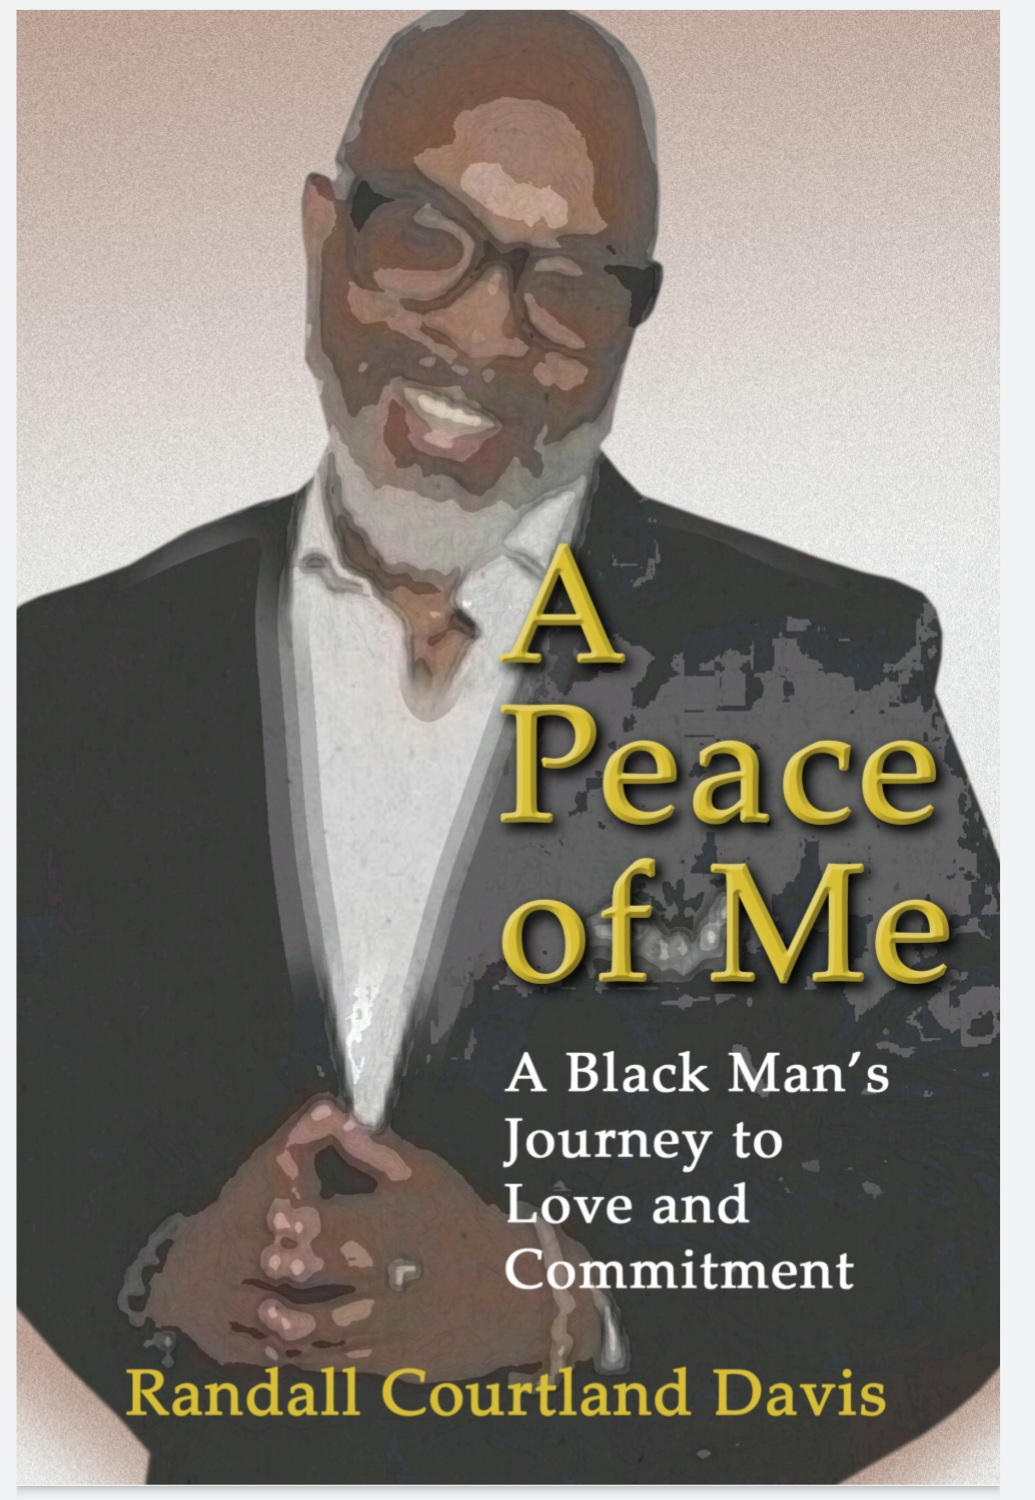
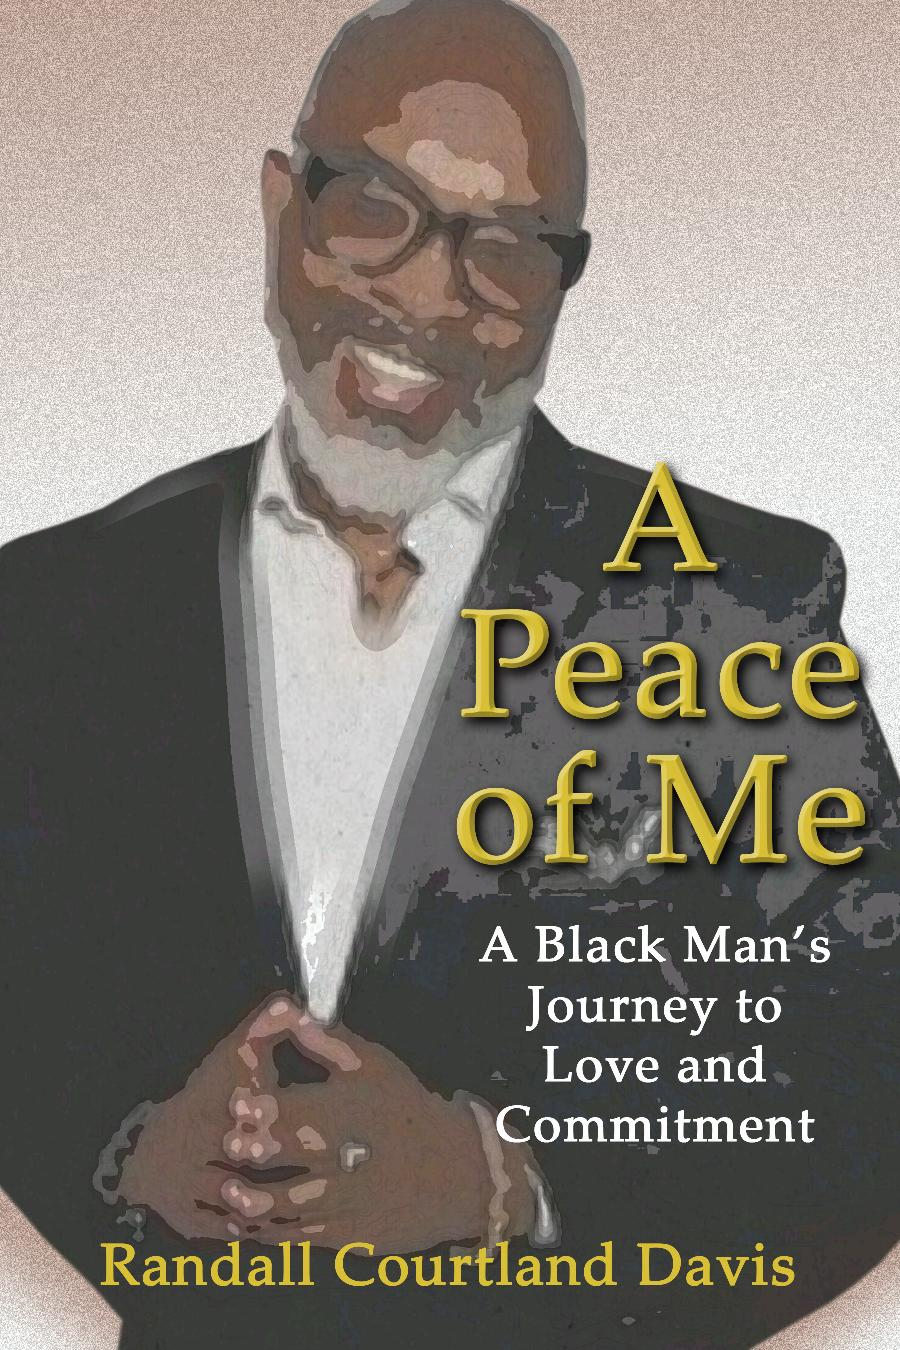
ui changes

diff --git a/src/components/SynopsisContainer.js b/src/components/SynopsisContainer.js
@@ -30,13 +30,13 @@ const SynopsisContainer = () => {
             <Grid item md={3} sm={6} xs={12}>
               <List
                 style={{
-                  background: "#CF25AF",
+                  background: "#DEB866",
                   color: "#fff",
                   padding: 0,
                   margin: "25px",
                 }}
               >
-                <AppBar position="static" style={{ background: "#702663" }}>
+                <AppBar position="static" style={{ background: "#2C2A2C" }}>
                   <Toolbar>
                     <Typography
                       style={{ fontFamily: '"Merienda", sans-serif' }}

diff --git a/src/components/SynopsisContainer/SynopsisList.jsx b/src/components/SynopsisContainer/SynopsisList.jsx
@@ -21,7 +21,7 @@ const SynopsisList = ({ title, text }) => {
       <ListItem
         button
         onClick={handleClick}
-        style={{ background: "#8A1274", color: "#fff" }}
+        style={{ background: "#2C2A2C", color: "#fff" }}
       >
         <ListItemText primary={title} />
         {open ? <ExpandLess /> : <ExpandMore />}

diff --git a/src/components/LandingContainer/CTA.js b/src/components/LandingContainer/CTA.js
@@ -10,7 +10,7 @@ import { teal, yellow } from "@material-ui/core/colors"
 
 const CTA = () => {
   return (
-    <Grid container justify="center">
+    <Grid container justify="center" alignItems='center'>
       <CoverPicture />
       <Grid item xs={12} md={3}>
       <StyledPaper style={{ margin: 15, textAlign: "center" }}>

diff --git a/src/components/LandingContainer/CoverPicture.js b/src/components/LandingContainer/CoverPicture.js
@@ -13,11 +13,12 @@ const CoverPicture = () => {
 export default CoverPicture
 
 const StyledImgWrapper = styled.div`
-  max-width: 450px;
+  max-width: 350px;
   width: 100%;
   /* max-height: 480px; */
   border-radius: 4px;
   margin-bottom: 15px;
+  margin: 15px 45px 0;
 
   overflow: hidden;
   img {

diff --git a/src/components/LandingContainer/AuthorPicture.js b/src/components/LandingContainer/AuthorPicture.js
@@ -52,7 +52,7 @@ const AuthorPicture = () => {
               to the world through storytelling.
             </p>
             <StyledButton href="/excerpt" style={{ float: "right" }}>
-              Read Excerpt
+              Subscribe
             </StyledButton>
           </div>
         </Grid>

diff --git a/src/components/ReviewsContainer.js b/src/components/ReviewsContainer.js
@@ -87,7 +87,7 @@ const ReviewsContainer = () => {
         </ReviewCard> */}
       </StyledReviewList>
       
-    </StyledSection><div style={{maxWidth:500}}>
+    </StyledSection><div >
           <CTA/>
       </div>
     </>

diff --git a/src/components/@shared/StyledButton.js b/src/components/@shared/StyledButton.js
@@ -26,7 +26,7 @@ const StyledButtonWrapper = styled.button`
   margin: 5px;
   padding: 10px;
   text-align: center;
-  background: #DEB866;
+  background: #F2CA16;
   color: #000;
   border: none;
   border-radius: 4px;

diff --git a/src/components/Footer.js b/src/components/Footer.js
@@ -17,6 +17,6 @@ const StyledFooter = styled.footer`
   padding: 15px;
   text-align: center;
   a {
-    color: #702663;
+    color: #B68438;
   }
 `
